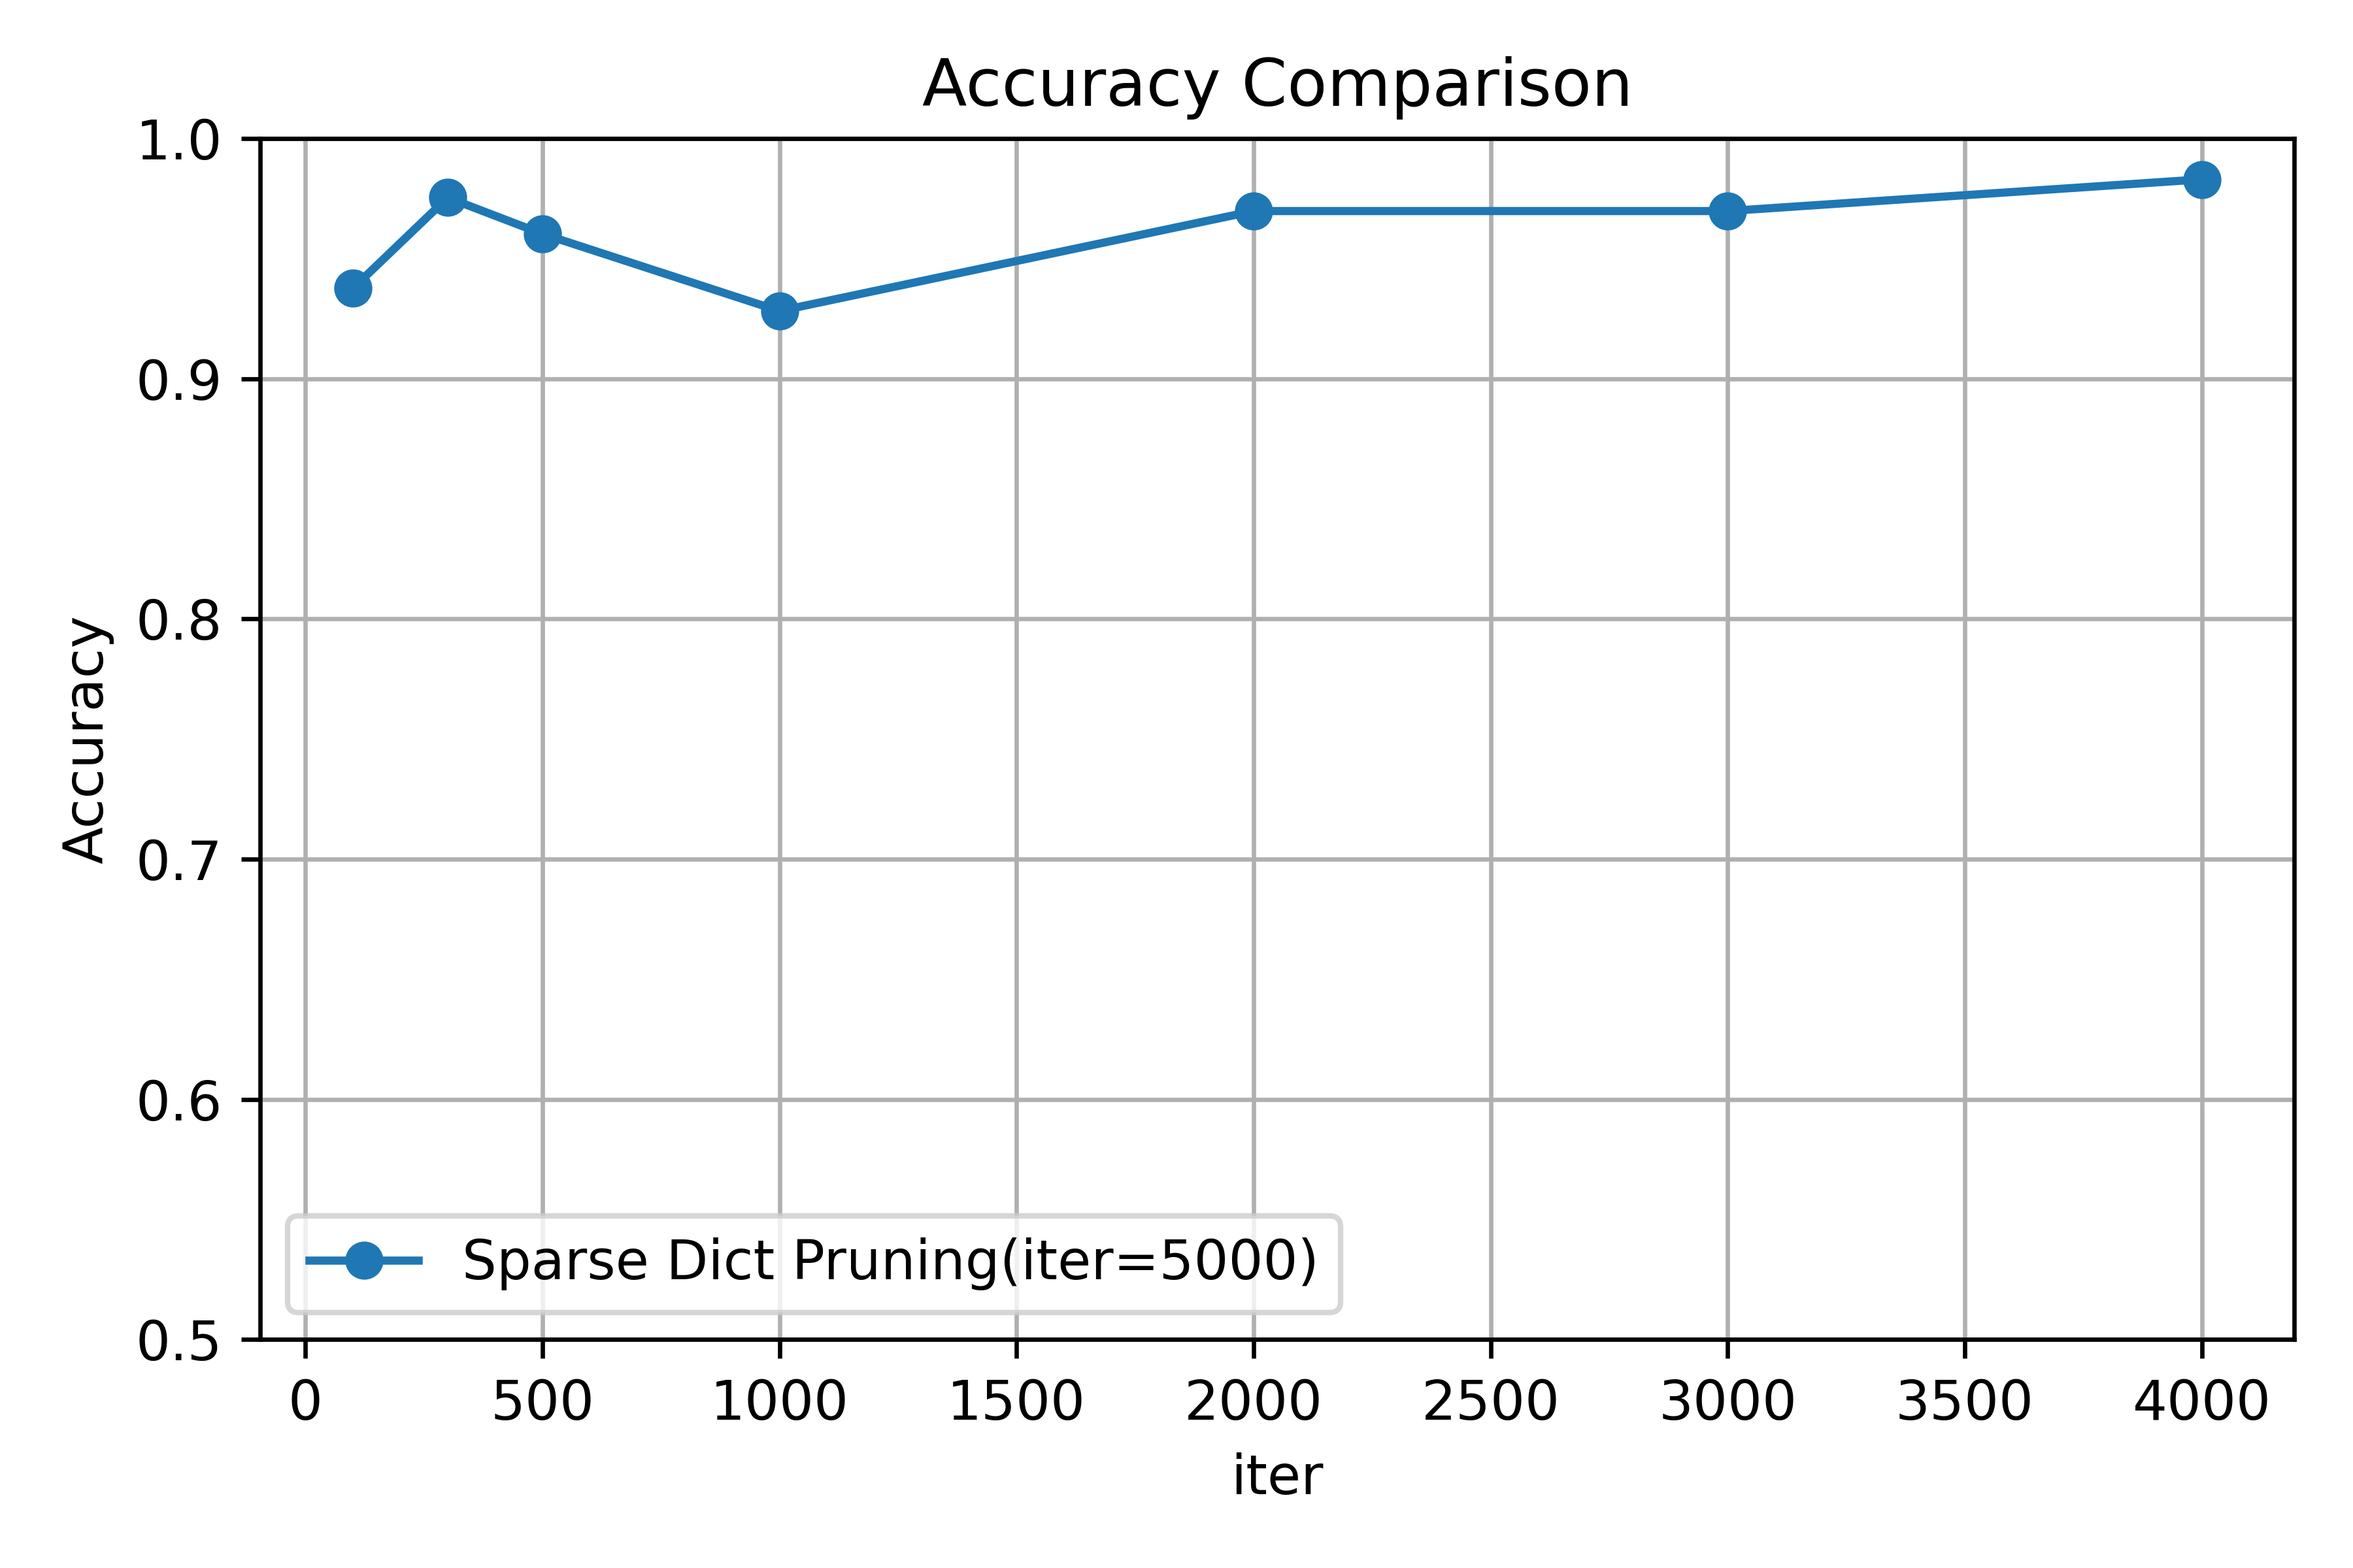
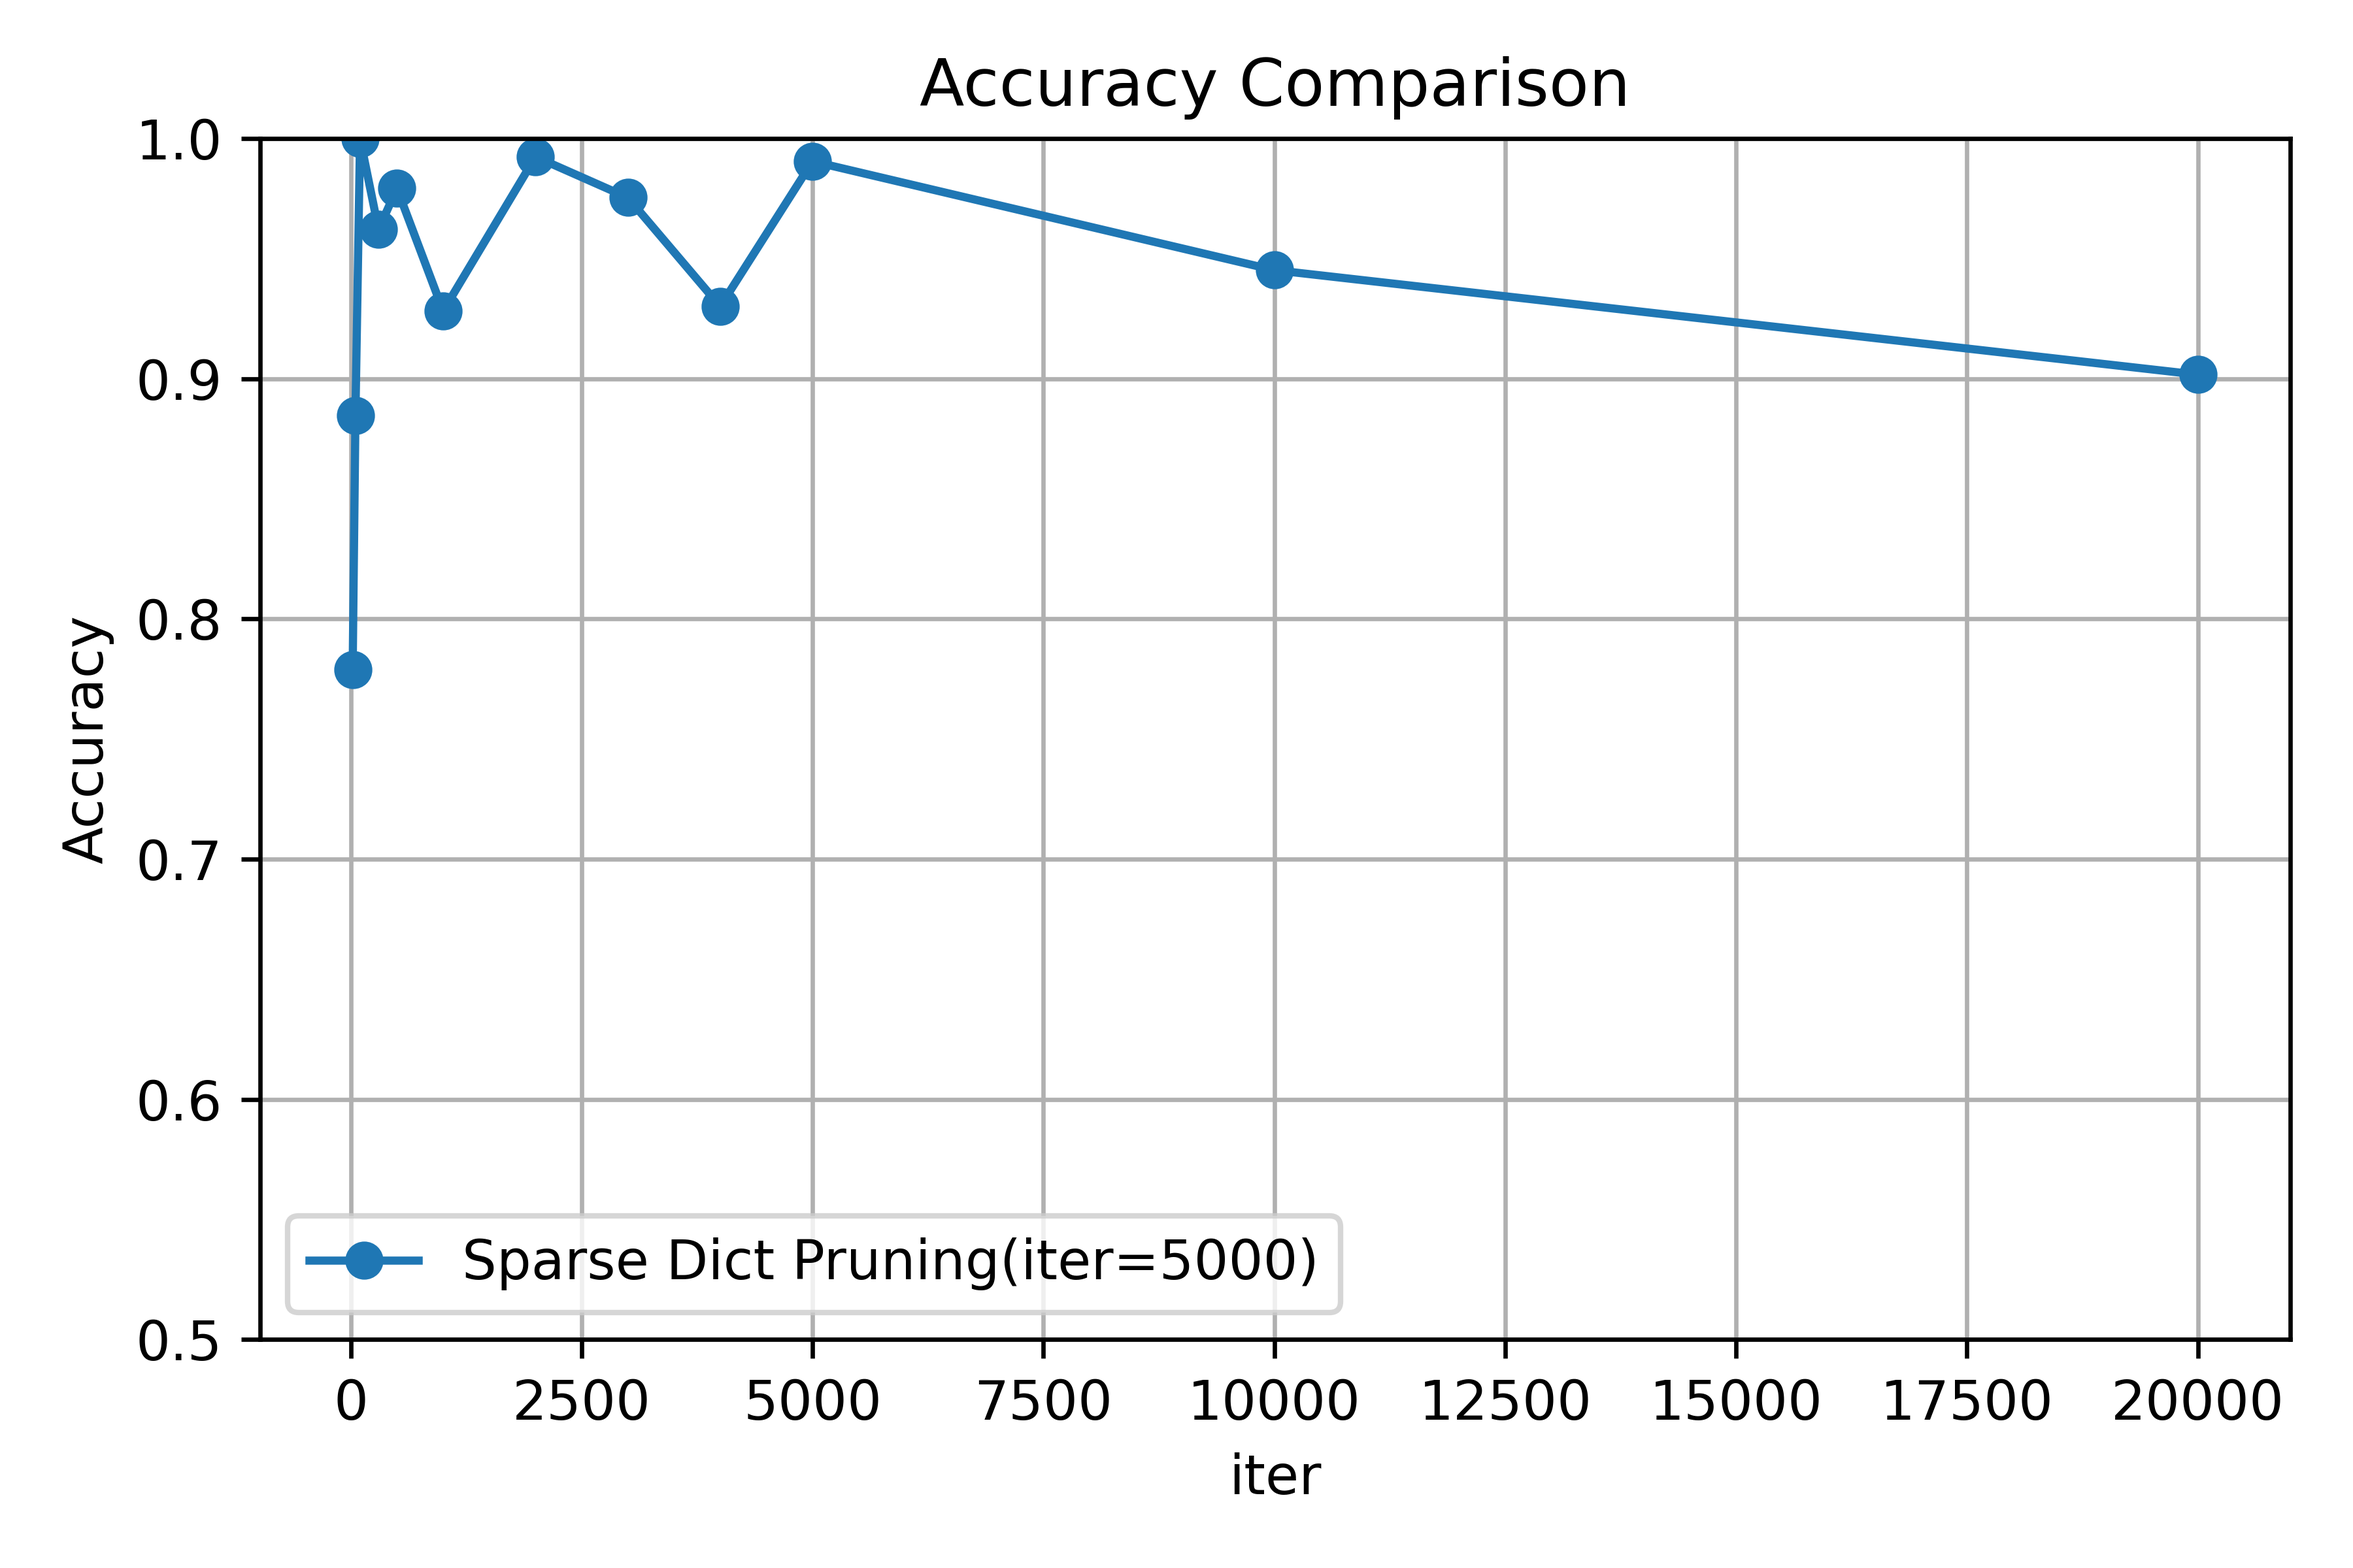
style:plotの修正

diff --git a/plot.py b/plot.py
@@ -2,10 +2,11 @@ import matplotlib.pyplot as plt
 import numpy as np
 
 # acc は小数点以下4桁に丸め済み
-t        = [100, 300, 500, 1000, 2000, 3000, 4000]
-time_sec = [1.9291, 11.9001, 54.7049, 289.4142, 776.6321, 2046.4504, 2904.4602]
-acc      = [0.9376, 0.9754, 0.9603, 0.9282, 0.9698, 0.9698, 0.9830]
-base     = [5, 50, 102, 174, 230, 305, 316]
+t = [20, 50, 100, 300, 500, 1000, 2000, 3000, 4000, 5000, 10000, 20000]
+acc = [0.7788, 0.8847, 1.0, 0.9622, 0.9792, 0.9282, 0.9924, 0.9754, 0.9301, 0.9905, 0.9452, 0.9017]
+time_sec = [0.4602, 2.5826, 2.8155, 13.2649, 41.5285, 220.6341, 742.9481, 1552.1726, 2235.6162, 2975.7356, 8967.5523, 25713.8633]
+base = [5, 5, 7, 48, 92, 163, 230, 277, 309, 327, 395, 393]
+
 
 # ========== 1) Training Time ==========
 plt.figure(figsize=(6, 4))

diff --git a/Pegasos_HYPASS.py b/Pegasos_HYPASS.py
@@ -13,7 +13,7 @@ myData.makeData(dataType=int(input("data type =>")))
 #-------------------
 # Learning and evaluation.
 print("t,acc")
-for t in [100, 300, 500, 1000, 2000, 3000, 4000, 5000]:
+for t in [100, 300, 500, 1000, 2000, 3000, 4000, 5000, 10000, 20000]:
     Pegasos = pg.Pegasos(myData.graphs, myData.classes, t, 1e-2)
 
     start = time.time()
